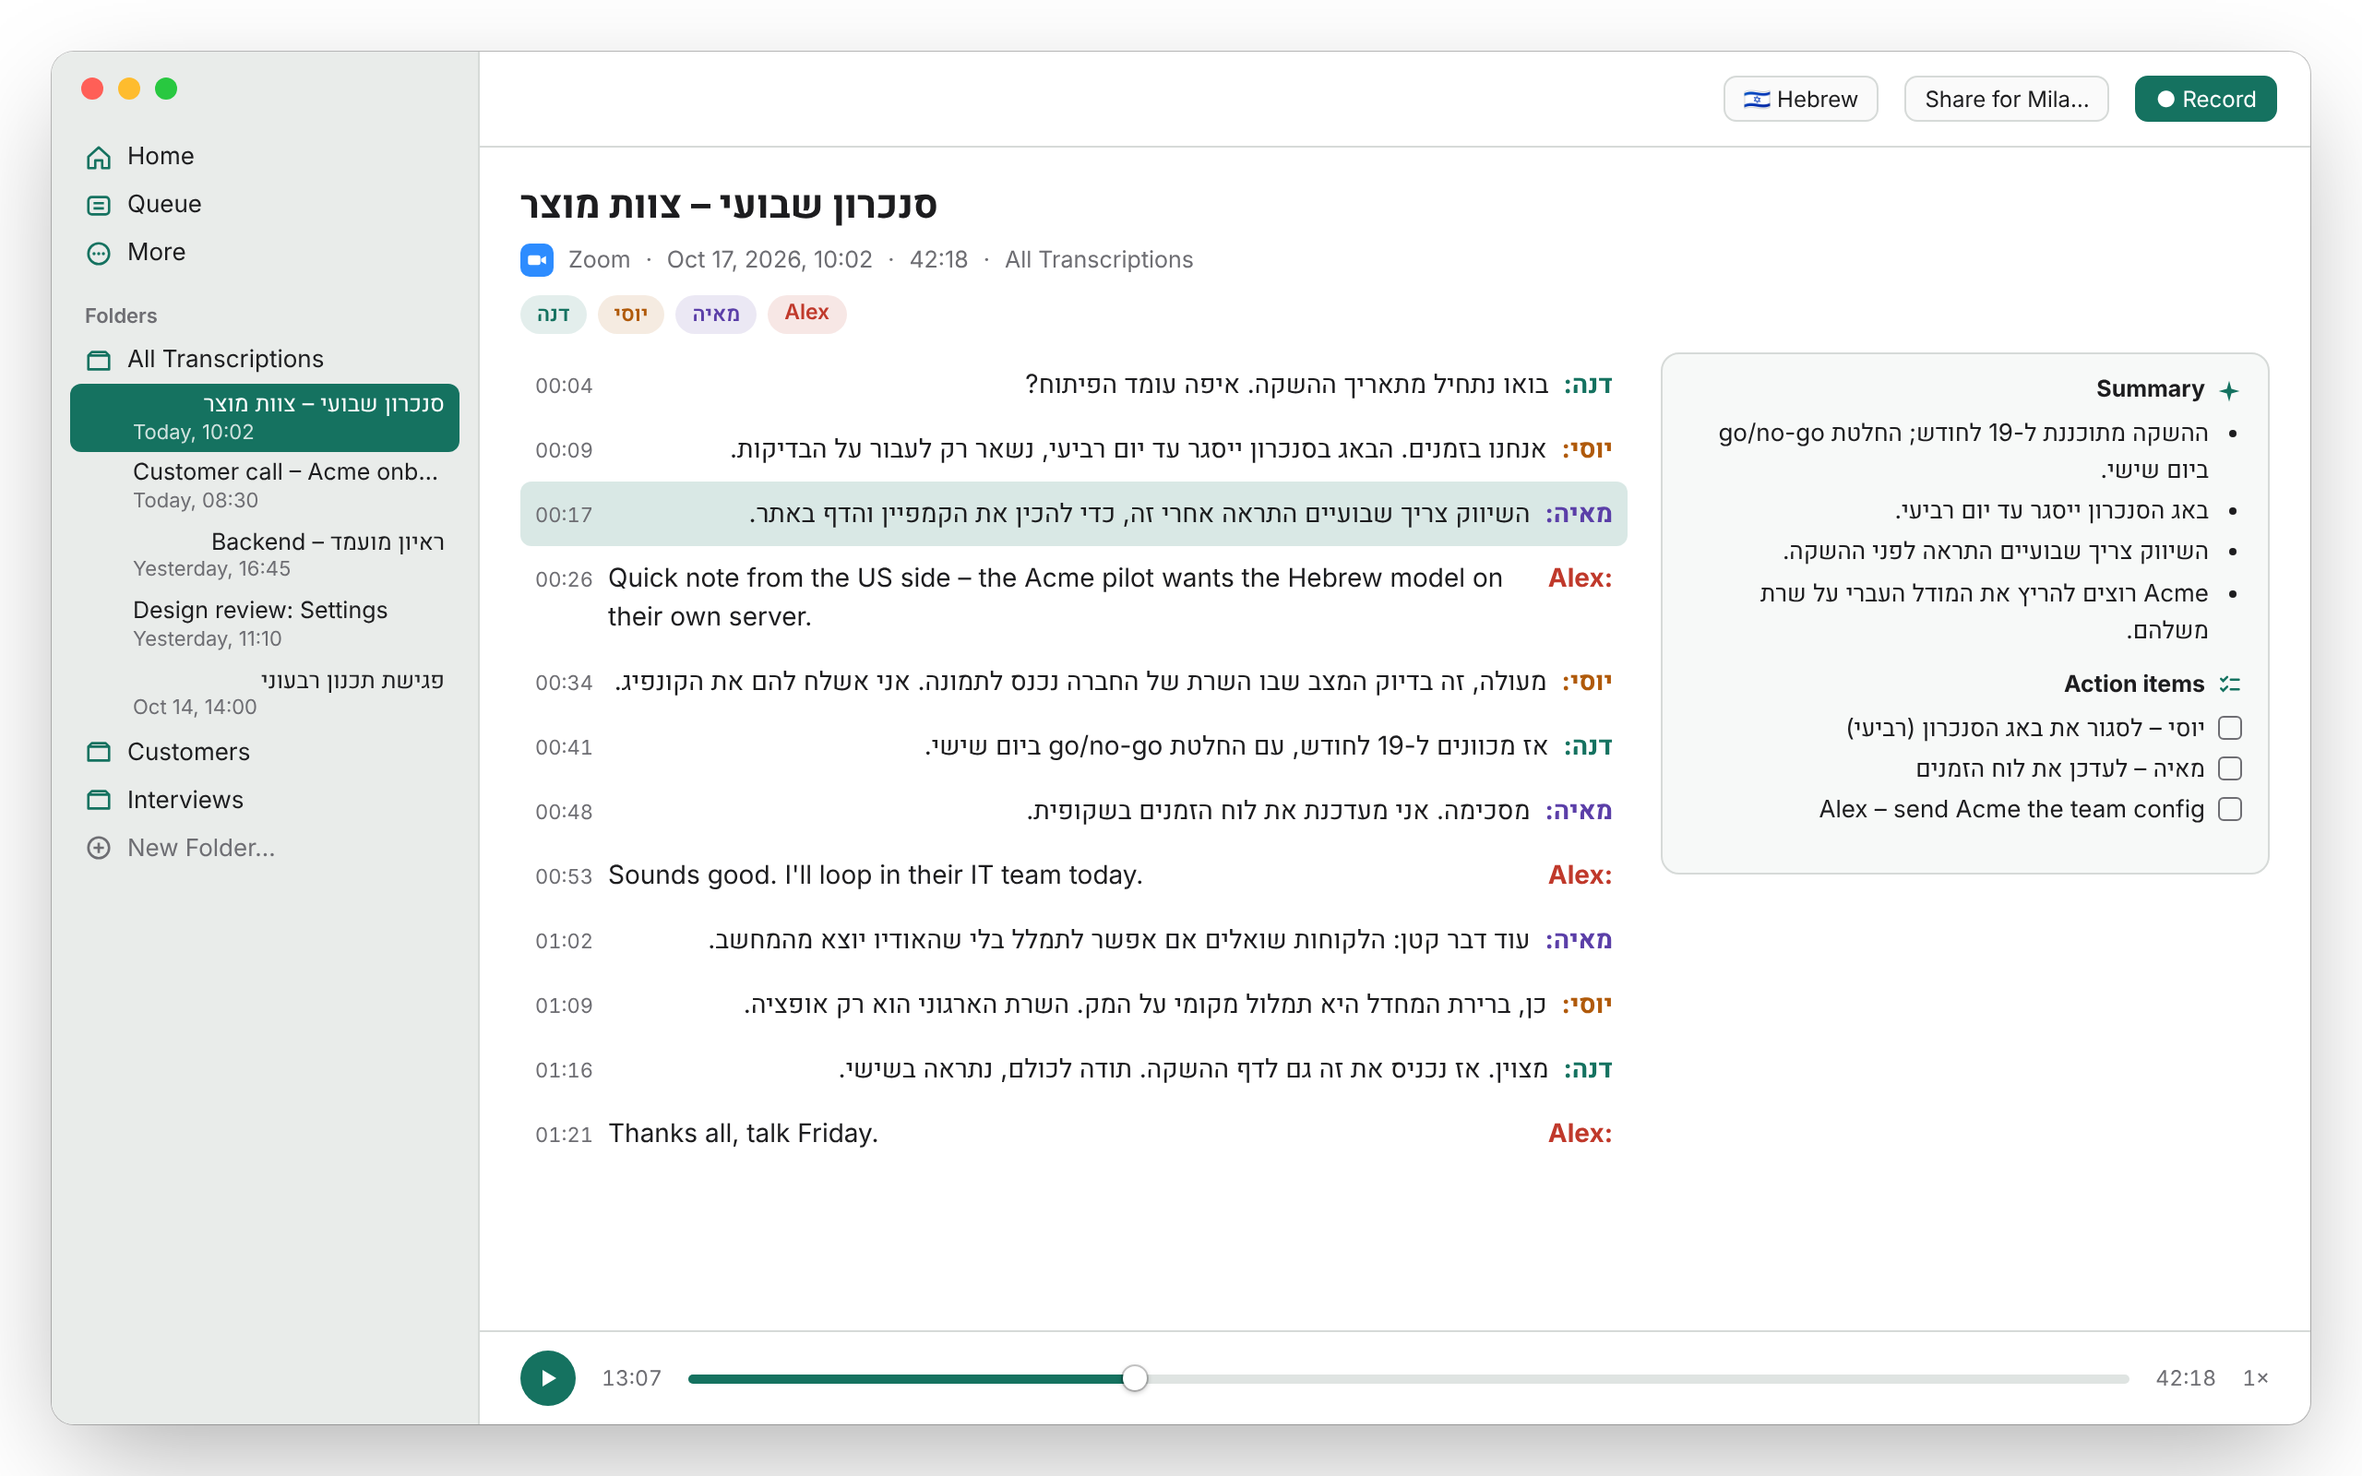
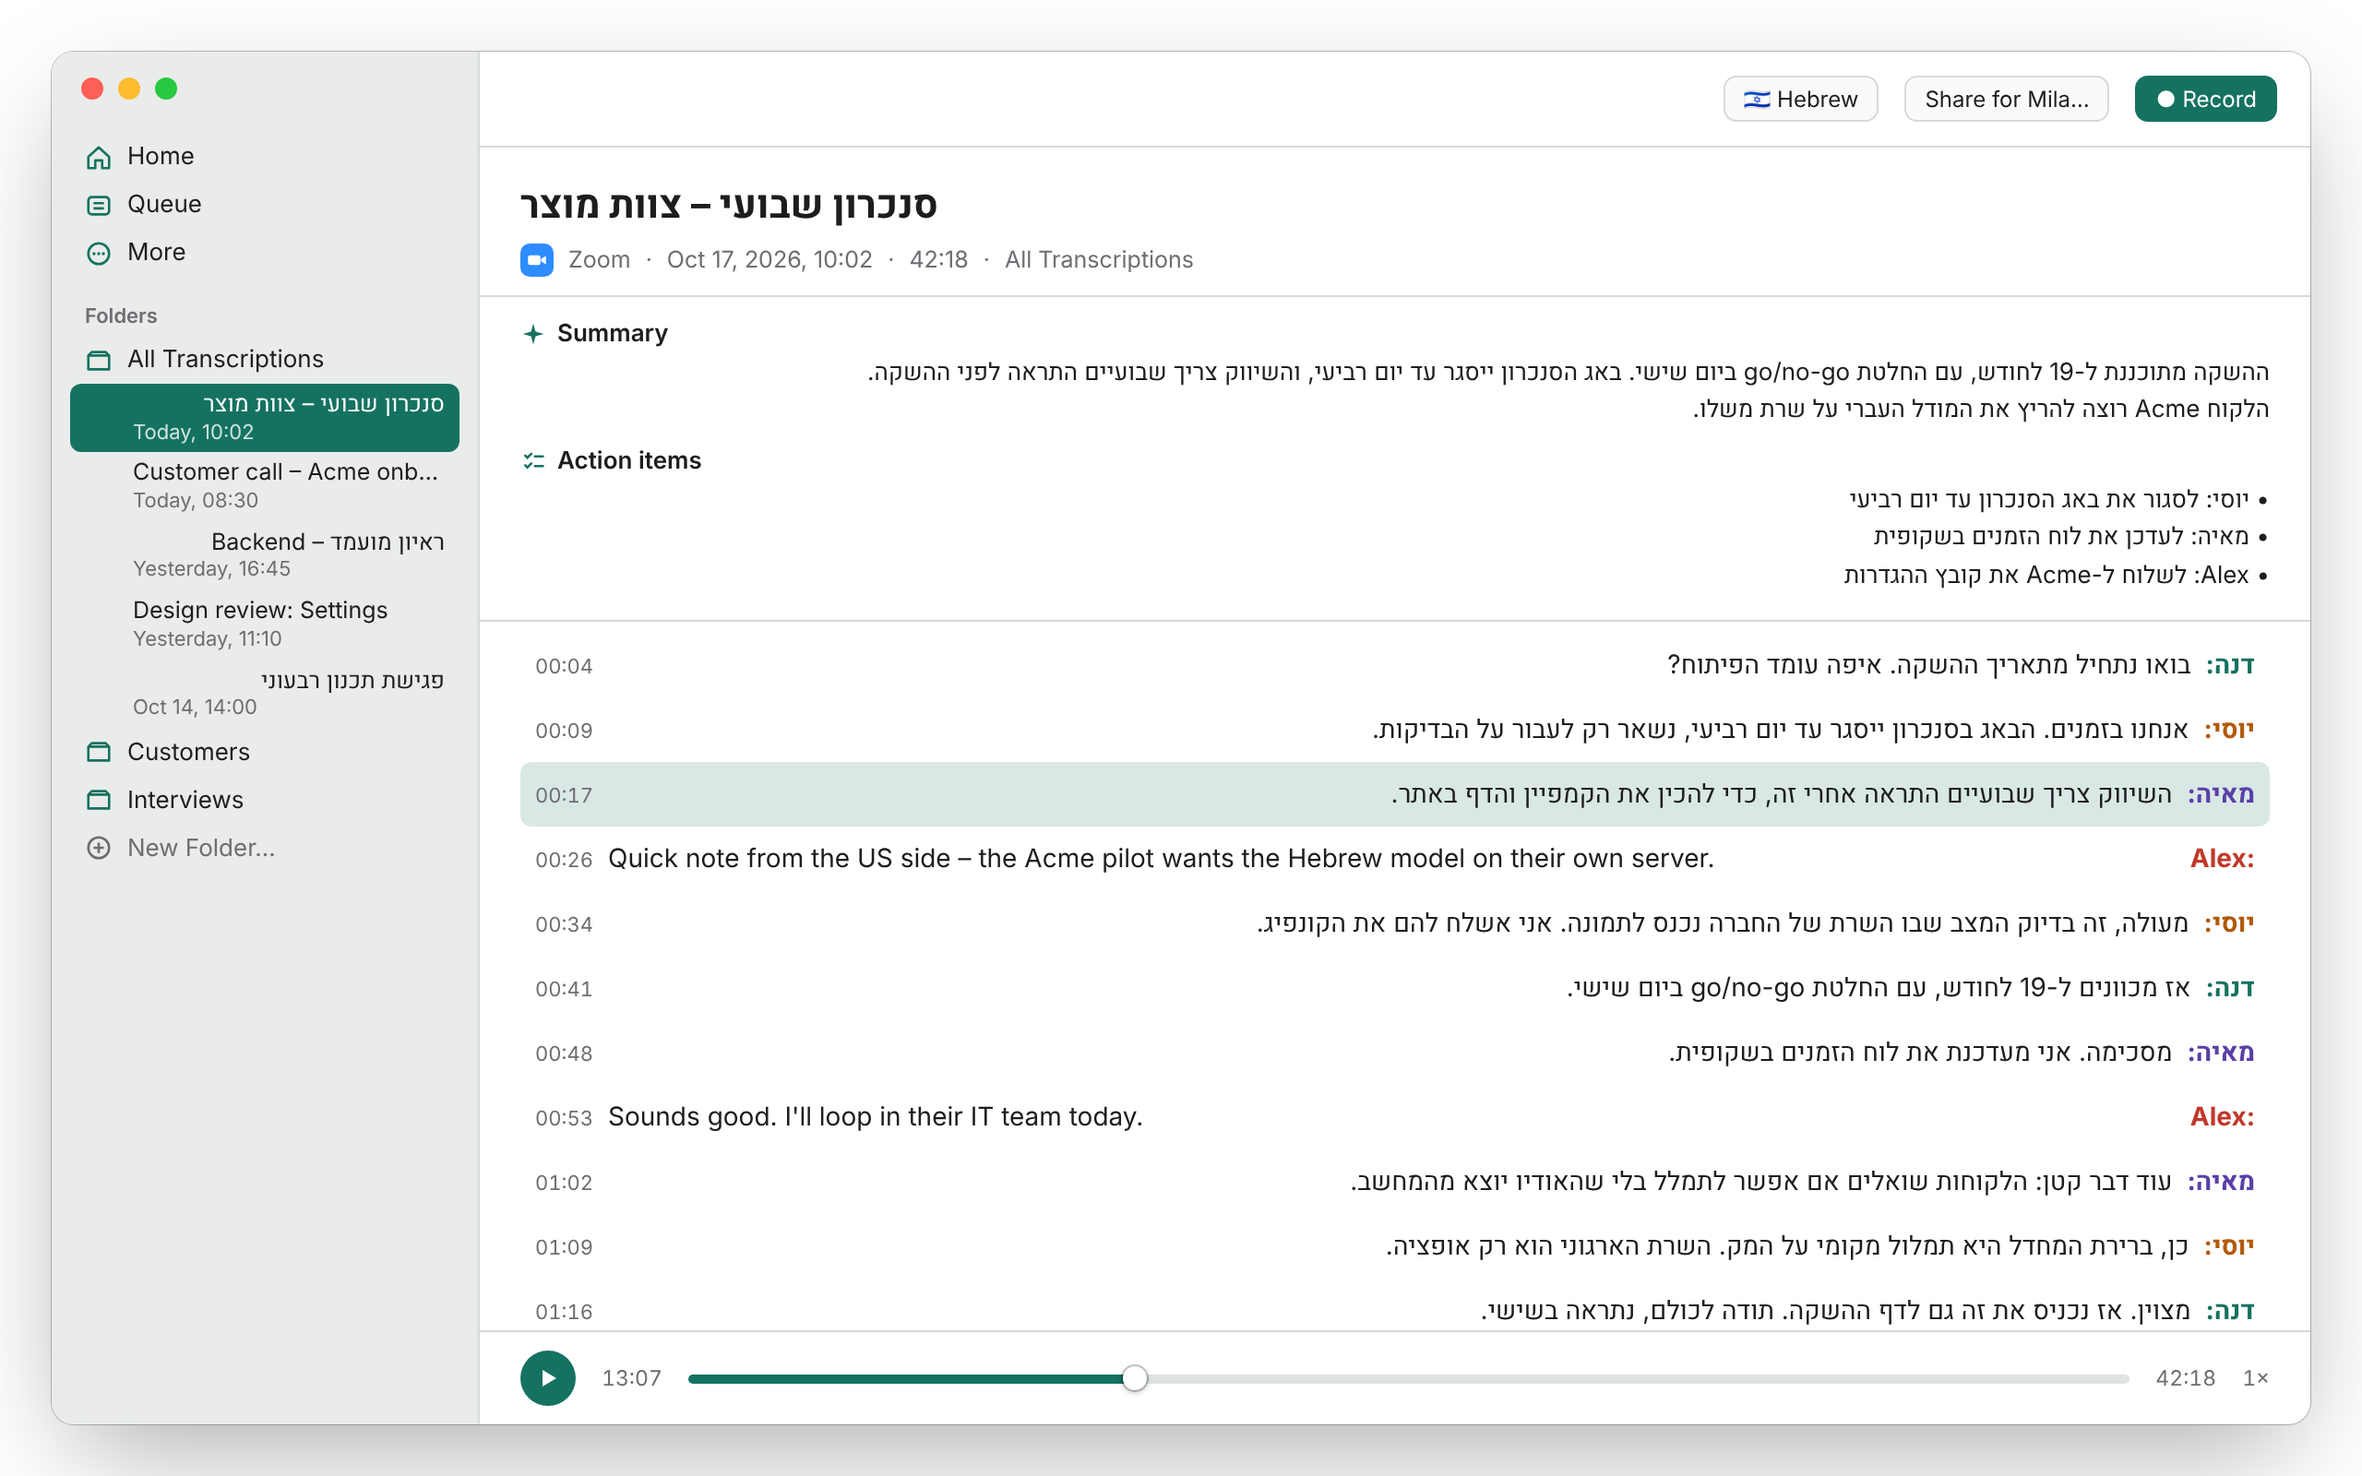
Website screenshot: match the real detail view layout
The summary and action items sit in a banner above the transcript
(AIOverviewBanner), not in a side panel, and the header has no speaker
chips. Also fix the render command in the source file's header comment.

Claude-Session: https://claude.ai/code/session_01ASL7i9Ag8Xbynih5i8toJT

diff --git a/design/website/app-window.html b/design/website/app-window.html
@@ -4,7 +4,7 @@
   (sidebar + recording detail) with sample Hebrew/English data, laid out after
   SidebarView, RecordingDetailView and AIOverviewSection. Render it with:
 
-    python3 scripts/render-site-screenshot.py
+    NODE_PATH=$(npm root -g) node design/website/render.mjs [fonts-dir]
 
   Replace site/app-screenshot.png with a real capture of the app at any time;
   the site only references the PNG.
@@ -61,7 +61,7 @@
   .muted { color: var(--secondary); }
   .rtl { direction: rtl; unicode-bidi: plaintext; }
   /* Detail */
-  .detail { display: grid; grid-template-rows: auto auto 1fr auto; min-width: 0; }
+  .detail { display: grid; grid-template-rows: auto auto auto minmax(0, 1fr) auto; min-width: 0; min-height: 0; }
   .toolbar { height: 52px; border-bottom: 1px solid var(--sep); display: flex; align-items: center; justify-content: flex-end; gap: 14px; padding: 0 18px; color: var(--secondary); }
   .pill { border: 1px solid var(--sep); border-radius: 7px; padding: 4px 10px; font-size: 12px; color: var(--text); background: #fafafa; }
   .pill.primary { background: var(--accent); color: #fff; border-color: var(--accent); }
@@ -70,24 +70,17 @@
   .meta { display: flex; align-items: center; gap: 8px; color: var(--secondary); font-size: 12.5px; }
   .badge { width: 18px; height: 18px; border-radius: 5px; background: #2d8cff; display: grid; place-items: center; }
   .badge svg { width: 12px; height: 12px; color: #fff; }
-  .chips { display: flex; gap: 6px; margin-top: 10px; }
-  .chip { font-size: 11.5px; border-radius: 999px; padding: 2px 9px; font-weight: 600; }
-  .body { overflow: hidden; padding: 0 22px; display: grid; grid-template-columns: 1fr 330px; gap: 18px; }
-  .transcript { overflow: hidden; }
+  .transcript { overflow: hidden; padding: 6px 22px 0; }
   .row { display: flex; align-items: baseline; gap: 8px; padding: 7px 8px; border-radius: 6px; }
   .row.active { background: var(--sel); }
   .row .text { flex: 1; font-size: 14px; line-height: 1.5; }
   .row .spk { font-weight: 650; white-space: nowrap; font-size: 14px; }
   .row .ts { font-size: 11px; color: var(--secondary); font-variant-numeric: tabular-nums; }
   .a { color: var(--spk-a); } .b { color: var(--spk-b); } .c { color: var(--spk-c); } .dd { color: var(--spk-d); }
-  .ai { border: 1px solid var(--sep); border-radius: 10px; padding: 12px 14px; background: #f7f9f8; align-self: start; }
-  .ai h4 { margin: 0 0 6px; font-size: 12.5px; display: flex; gap: 6px; align-items: center; }
+  .ai { border-top: 1px solid var(--sep); border-bottom: 1px solid var(--sep); padding: 12px 22px 14px; display: grid; gap: 10px; }
+  .ai h4 { margin: 0 0 3px; font-size: 13px; font-weight: 600; display: flex; gap: 6px; align-items: center; }
   .ai h4 svg { width: 14px; height: 14px; color: var(--accent); }
-  .ai ul { margin: 0 0 12px; padding: 0 18px 0 0; font-size: 13px; line-height: 1.55; }
-  .ai li { margin: 2px 0; }
-  .ai .check { list-style: none; padding: 0; }
-  .ai .check li { display: flex; gap: 7px; align-items: baseline; }
-  .ai .check li::before { content: ""; width: 11px; height: 11px; border: 1.5px solid var(--secondary); border-radius: 3px; flex: none; transform: translateY(2px); }
+  .ai p { margin: 0; font-size: 13px; line-height: 1.55; }
   .player { border-top: 1px solid var(--sep); padding: 10px 22px; display: flex; align-items: center; gap: 14px; }
   .play { width: 30px; height: 30px; border-radius: 50%; background: var(--accent); display: grid; place-items: center; }
   .play svg { width: 12px; height: 12px; color: #fff; }
@@ -128,45 +121,35 @@
         <span class="badge"><svg viewBox="0 0 16 16"><rect x="1.5" y="4.5" width="9" height="7" rx="1.5" fill="currentColor"/><path d="m11 7 3.5-2v6L11 9z" fill="currentColor"/></svg></span>
         Zoom <span>·</span> Oct 17, 2026, 10:02 <span>·</span> 42:18 <span>·</span> All Transcriptions
       </div>
-      <div class="chips">
-        <span class="chip a" style="background:rgba(21,114,96,.12)">דנה</span>
-        <span class="chip b" style="background:rgba(176,90,10,.12)">יוסי</span>
-        <span class="chip c" style="background:rgba(91,63,168,.12)">מאיה</span>
-        <span class="chip dd" style="background:rgba(192,57,43,.12)">Alex</span>
+    </div>
+
+    <div class="ai">
+      <div>
+        <h4><svg viewBox="0 0 16 16"><path d="M8 1.5 9.4 6.6 14.5 8 9.4 9.4 8 14.5 6.6 9.4 1.5 8 6.6 6.6z" fill="currentColor"/></svg>Summary</h4>
+        <p class="rtl">ההשקה מתוכננת ל-19 לחודש, עם החלטת go/no-go ביום שישי. באג הסנכרון ייסגר עד יום רביעי, והשיווק צריך שבועיים התראה לפני ההשקה.</p>
+        <p class="rtl">הלקוח Acme רוצה להריץ את המודל העברי על שרת משלו.</p>
+      </div>
+      <div>
+        <h4><svg viewBox="0 0 16 16"><path d="M3 4.5l1.3 1.3L6.8 3.3M3 10.5l1.3 1.3 2.5-2.5M9 5h5M9 11h5" fill="none" stroke="currentColor" stroke-width="1.4" stroke-linecap="round"/></svg>Action items</h4>
+        <p dir="rtl">• יוסי: לסגור את באג הסנכרון עד יום רביעי</p>
+        <p dir="rtl">• מאיה: לעדכן את לוח הזמנים בשקופית</p>
+        <p dir="rtl">• Alex: לשלוח ל-Acme את קובץ ההגדרות</p>
       </div>
     </div>
 
-    <div class="body">
-      <div class="transcript">
-        <div class="row"><span class="ts">00:04</span><span class="text rtl">בואו נתחיל מתאריך ההשקה. איפה עומד הפיתוח?</span><span class="spk a">:דנה</span></div>
-        <div class="row"><span class="ts">00:09</span><span class="text rtl">אנחנו בזמנים. הבאג בסנכרון ייסגר עד יום רביעי, נשאר רק לעבור על הבדיקות.</span><span class="spk b">:יוסי</span></div>
-        <div class="row active"><span class="ts">00:17</span><span class="text rtl">השיווק צריך שבועיים התראה אחרי זה, כדי להכין את הקמפיין והדף באתר.</span><span class="spk c">:מאיה</span></div>
-        <div class="row"><span class="ts">00:26</span><span class="text">Quick note from the US side – the Acme pilot wants the Hebrew model on their own server.</span><span class="spk dd">Alex:</span></div>
-        <div class="row"><span class="ts">00:34</span><span class="text rtl">מעולה, זה בדיוק המצב שבו השרת של החברה נכנס לתמונה. אני אשלח להם את הקונפיג.</span><span class="spk b">:יוסי</span></div>
-        <div class="row"><span class="ts">00:41</span><span class="text rtl">אז מכוונים ל-19 לחודש, עם החלטת go/no-go ביום שישי.</span><span class="spk a">:דנה</span></div>
-        <div class="row"><span class="ts">00:48</span><span class="text rtl">מסכימה. אני מעדכנת את לוח הזמנים בשקופית.</span><span class="spk c">:מאיה</span></div>
-        <div class="row"><span class="ts">00:53</span><span class="text">Sounds good. I'll loop in their IT team today.</span><span class="spk dd">Alex:</span></div>
-        <div class="row"><span class="ts">01:02</span><span class="text rtl">עוד דבר קטן: הלקוחות שואלים אם אפשר לתמלל בלי שהאודיו יוצא מהמחשב.</span><span class="spk c">:מאיה</span></div>
-        <div class="row"><span class="ts">01:09</span><span class="text rtl">כן, ברירת המחדל היא תמלול מקומי על המק. השרת הארגוני הוא רק אופציה.</span><span class="spk b">:יוסי</span></div>
-        <div class="row"><span class="ts">01:16</span><span class="text rtl">מצוין. אז נכניס את זה גם לדף ההשקה. תודה לכולם, נתראה בשישי.</span><span class="spk a">:דנה</span></div>
-        <div class="row"><span class="ts">01:21</span><span class="text">Thanks all, talk Friday.</span><span class="spk dd">Alex:</span></div>
-      </div>
-
-      <div class="ai rtl">
-        <h4><svg viewBox="0 0 16 16"><path d="M8 1.5 9.4 6.6 14.5 8 9.4 9.4 8 14.5 6.6 9.4 1.5 8 6.6 6.6z" fill="currentColor"/></svg>Summary</h4>
-        <ul>
-          <li>ההשקה מתוכננת ל-19 לחודש; החלטת go/no-go ביום שישי.</li>
-          <li>באג הסנכרון ייסגר עד יום רביעי.</li>
-          <li>השיווק צריך שבועיים התראה לפני ההשקה.</li>
-          <li>Acme רוצים להריץ את המודל העברי על שרת משלהם.</li>
-        </ul>
-        <h4><svg viewBox="0 0 16 16"><path d="M3 4.5l1.3 1.3L6.8 3.3M3 10.5l1.3 1.3 2.5-2.5M9 5h5M9 11h5" fill="none" stroke="currentColor" stroke-width="1.4" stroke-linecap="round"/></svg>Action items</h4>
-        <ul class="check">
-          <li>יוסי – לסגור את באג הסנכרון (רביעי)</li>
-          <li>מאיה – לעדכן את לוח הזמנים</li>
-          <li>Alex – send Acme the team config</li>
-        </ul>
-      </div>
+    <div class="transcript">
+      <div class="row"><span class="ts">00:04</span><span class="text rtl">בואו נתחיל מתאריך ההשקה. איפה עומד הפיתוח?</span><span class="spk a">:דנה</span></div>
+      <div class="row"><span class="ts">00:09</span><span class="text rtl">אנחנו בזמנים. הבאג בסנכרון ייסגר עד יום רביעי, נשאר רק לעבור על הבדיקות.</span><span class="spk b">:יוסי</span></div>
+      <div class="row active"><span class="ts">00:17</span><span class="text rtl">השיווק צריך שבועיים התראה אחרי זה, כדי להכין את הקמפיין והדף באתר.</span><span class="spk c">:מאיה</span></div>
+      <div class="row"><span class="ts">00:26</span><span class="text">Quick note from the US side – the Acme pilot wants the Hebrew model on their own server.</span><span class="spk dd">Alex:</span></div>
+      <div class="row"><span class="ts">00:34</span><span class="text rtl">מעולה, זה בדיוק המצב שבו השרת של החברה נכנס לתמונה. אני אשלח להם את הקונפיג.</span><span class="spk b">:יוסי</span></div>
+      <div class="row"><span class="ts">00:41</span><span class="text rtl">אז מכוונים ל-19 לחודש, עם החלטת go/no-go ביום שישי.</span><span class="spk a">:דנה</span></div>
+      <div class="row"><span class="ts">00:48</span><span class="text rtl">מסכימה. אני מעדכנת את לוח הזמנים בשקופית.</span><span class="spk c">:מאיה</span></div>
+      <div class="row"><span class="ts">00:53</span><span class="text">Sounds good. I'll loop in their IT team today.</span><span class="spk dd">Alex:</span></div>
+      <div class="row"><span class="ts">01:02</span><span class="text rtl">עוד דבר קטן: הלקוחות שואלים אם אפשר לתמלל בלי שהאודיו יוצא מהמחשב.</span><span class="spk c">:מאיה</span></div>
+      <div class="row"><span class="ts">01:09</span><span class="text rtl">כן, ברירת המחדל היא תמלול מקומי על המק. השרת הארגוני הוא רק אופציה.</span><span class="spk b">:יוסי</span></div>
+      <div class="row"><span class="ts">01:16</span><span class="text rtl">מצוין. אז נכניס את זה גם לדף ההשקה. תודה לכולם, נתראה בשישי.</span><span class="spk a">:דנה</span></div>
+      <div class="row"><span class="ts">01:21</span><span class="text">Thanks all, talk Friday.</span><span class="spk dd">Alex:</span></div>
     </div>
 
     <div class="player">
